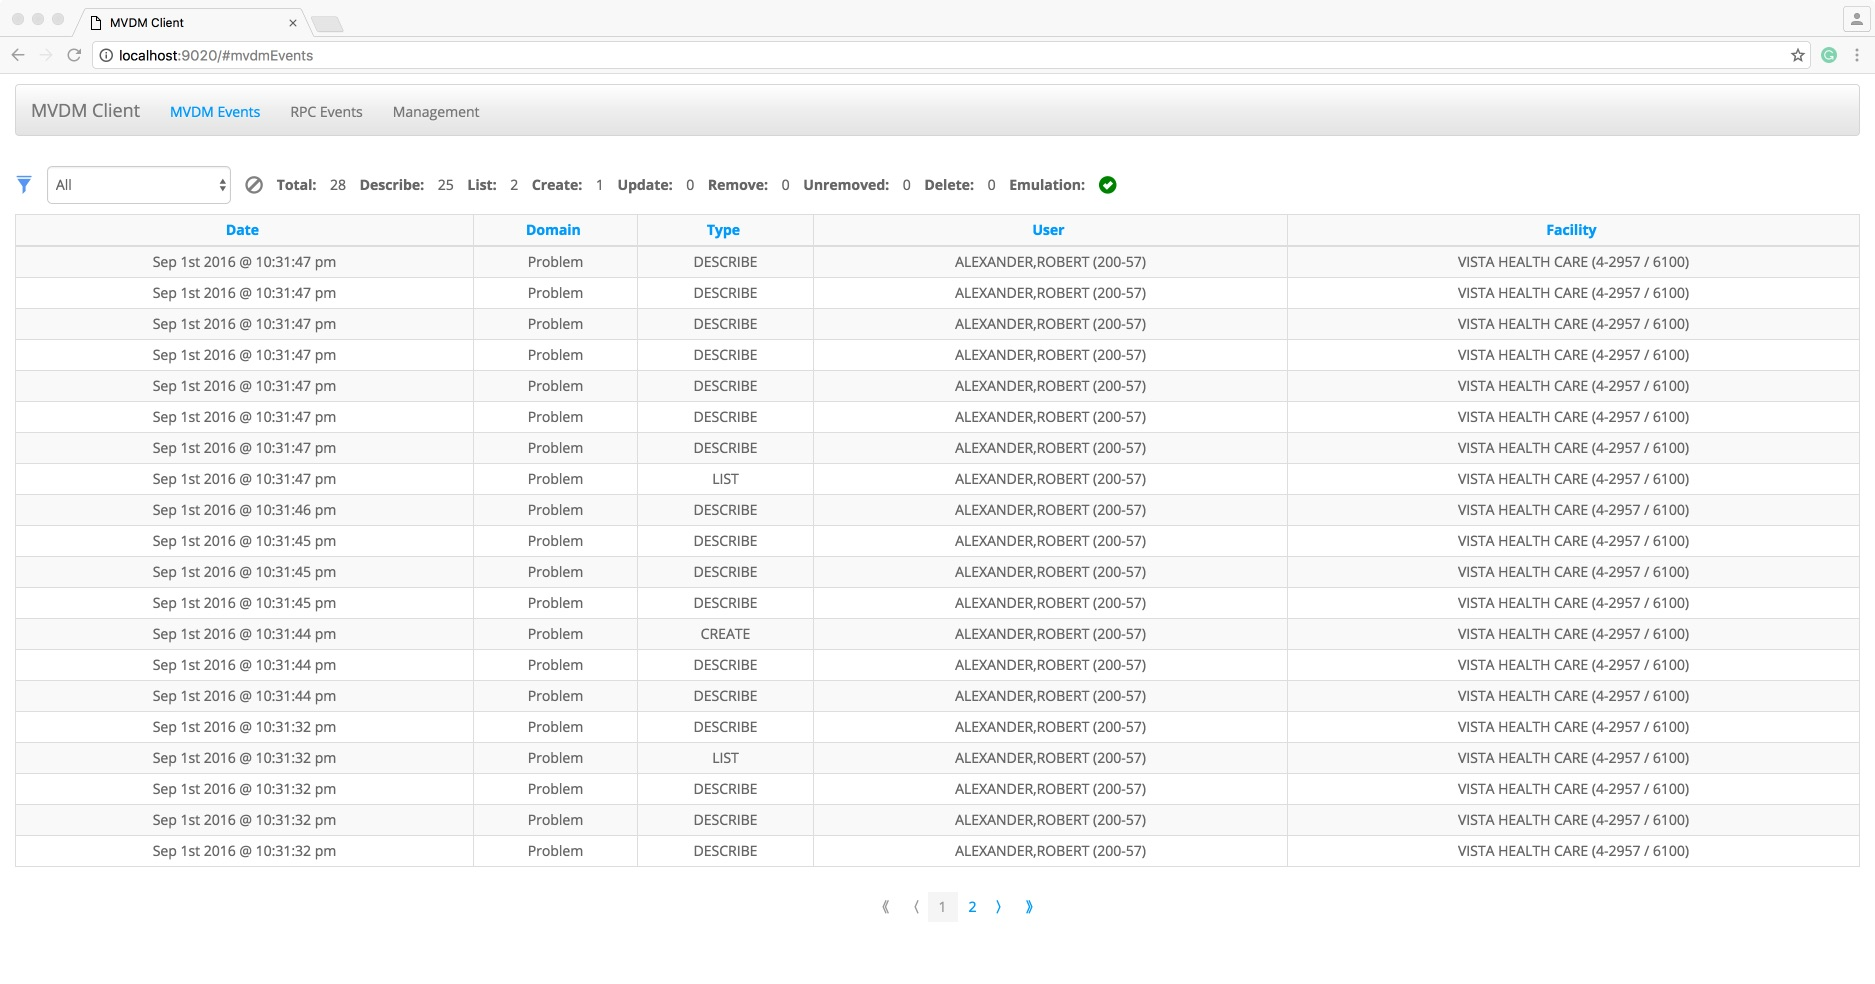
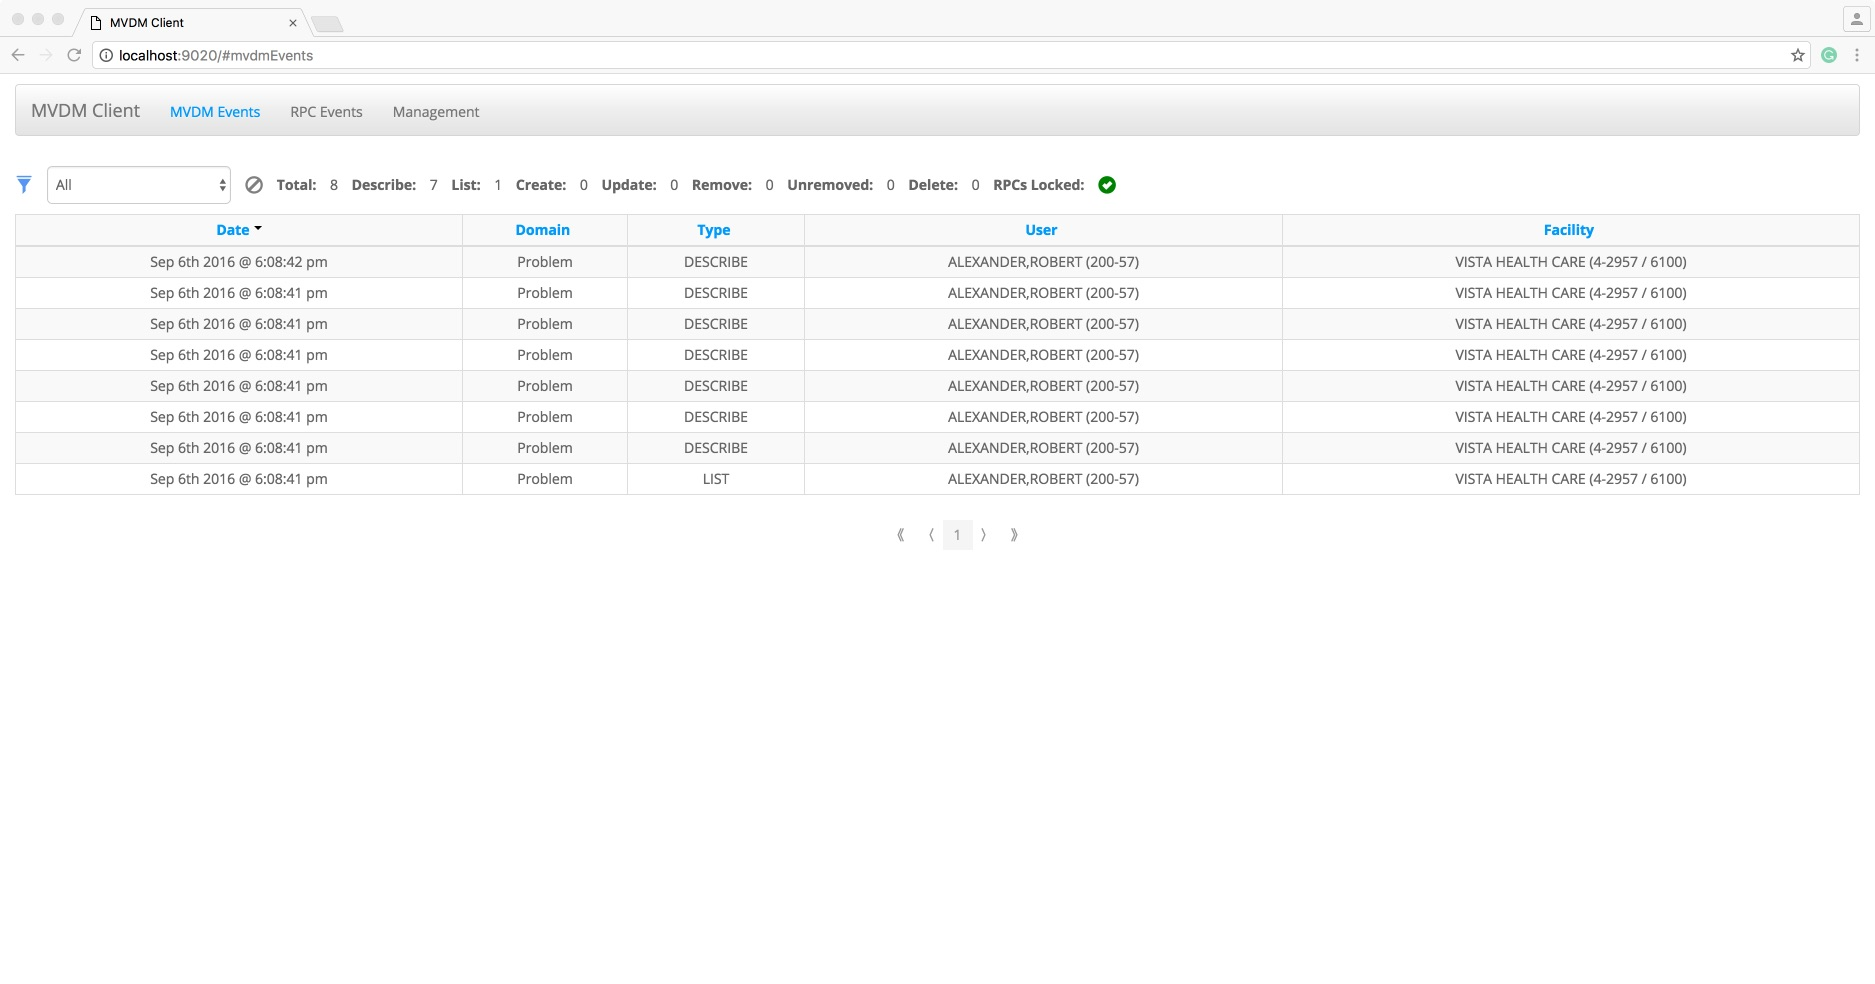
bug fixes updating screenshots

diff --git a/interfaces/rpcServer/static/js/rpcEvents/rpcEventsView.js b/interfaces/rpcServer/static/js/rpcEvents/rpcEventsView.js
@@ -33,7 +33,7 @@ define([
             selectOptions: _.union([
                {label: "All", value: null},
                {label: 'Local RPC Runner', value: 'localRPCRunner'},
-               {label: 'Emulated', value: 'rpcE'},
+               {label: 'Locked', value: 'rpcL'},
                {label: 'Hardcode', value: 'hardcode'}]),
             columns: [{
                name: 'timestamp',
@@ -70,14 +70,14 @@ define([
 
          this.$el.find('.event-count-total').html(EventCounter.get('total'));
          this.$el.find('.event-count-local-rpc-runner').html(EventCounter.get('localRPCRunner'));
-         this.$el.find('.event-count-emulated').html(EventCounter.get('rpcE'));
+         this.$el.find('.event-count-locked').html(EventCounter.get('rpcL'));
          this.$el.find('.event-count-hardcode').html(EventCounter.get('hardcode'));
       },
       clearEventCounter: function() {
          EventCounter.set({
             total: 0,
             localRPCRunner: 0,
-            rpcE: 0,
+            rpcL: 0,
             hardcode: 0
          });
 

diff --git a/interfaces/rpcServer/static/js/rpcEvents/eventCounterModel.js b/interfaces/rpcServer/static/js/rpcEvents/eventCounterModel.js
@@ -10,7 +10,7 @@ define([
       defaults: {
          total: 0,
          localRPCRunner: 0,
-         rpcE: 0,
+         rpcL: 0,
          hardcode: 0
       }
    });
